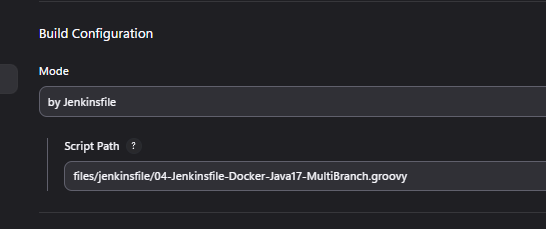
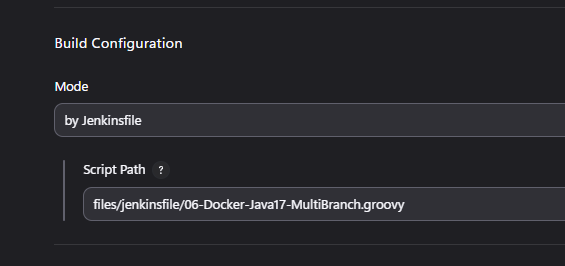
feat: multibranch pipeline

diff --git a/docs/module_03/readme.md b/docs/module_03/readme.md
@@ -266,6 +266,9 @@ pipeline {
         failure {
             echo 'Executado em falha.'
         }
+        unstable {
+            echo 'Executado se o build ficou instável.'
+        }
         changed {
             echo 'Executado se o resultado mudou.'
         }
@@ -273,7 +276,16 @@ pipeline {
 }
 </pre>
 
-✅ **Dica:** O `post` é essencial para limpar recursos e enviar notificações.
+✅ **Dica:** O `post` é essencial para fazer tratativas após execução do pipeline como por exemplo
+
+1) Limpar recursos
+   1) Limpar a workspace com o `cleanWS()`
+2) Parar recursos
+   1) Por exemplo um build que sobe um compose no docker
+3) Enviar notificações
+   1) Por exemplo um email com o resultado do pipeline
+   2) Alertas para Discord/Slack
+
 
 ---
 
